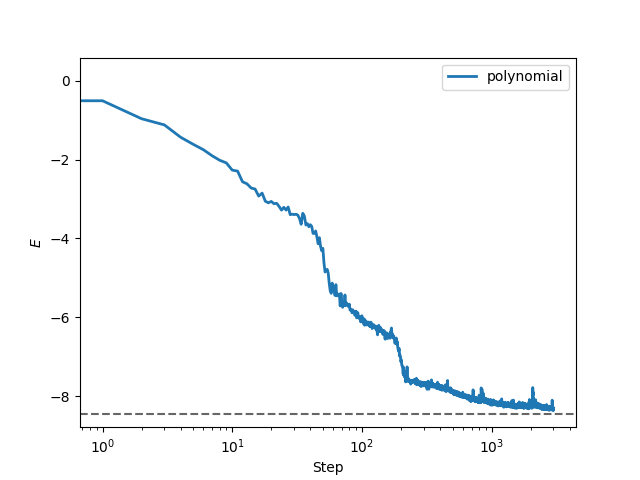
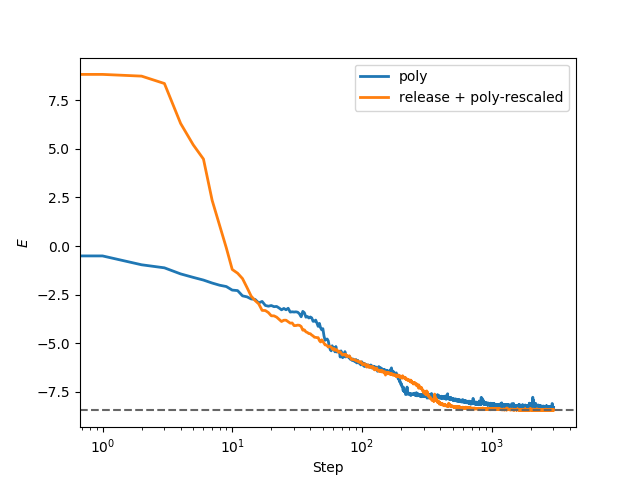
update wanglei3

diff --git a/controller.py b/controller.py
@@ -945,24 +945,23 @@ def analyse_psiscaling(J2, size):
     plt.legend(['$v$']+labels)
     pdb.set_trace()
 
-def analyse_poly(configfile, num_iter):
+def analyse_poly(configfile, num_iter, bench_id_list):
     config = load_config(configfile)
     # folder to store data, containing config.py
     folder = os.path.dirname(configfile)
     e0 = config['hamiltonian']['EG']
-    bench_id_list = [10,11,12,13,14,16]
     labels = ['polynomial','legendre', 'hermite', 'chebyshev', 'laguerre','hermiteE']
     legends = []
 
     sys.path.insert(0,folder)
     from config import modifyconfig_and_getnn
     plt.ion()
-    for bench_id, label in zip(bench_id_list, labels):
+    for ib,(bench_id, label) in enumerate(zip(bench_id_list, labels)):
         rbm = modifyconfig_and_getnn(config, bench_id)
 
         optimizer, problem = pconfig(config, rbm)
         h, sr, rbm, vmc = problem.hamiltonian, problem.sr, problem.rbm, problem.vmc
-        if bench_id == 10:
+        if ib == 0:
             H, e0, v0, configs = analyse_exact(h, do_printsign=False)
 
         # load data
@@ -976,7 +975,9 @@ def analyse_poly(configfile, num_iter):
         print('overlap = %s'%overlap)
 
         # show weights in conv layers.
-        polylayer = rbm.layers[4]
+        for layer in rbm.layers:
+            if hasattr(layer,'kernel_dict'):
+                polylayer = layer
         data = polylayer.get_variables()
         plt.plot(np.real(data))
         legends.append('%s (%.4f)'%(label,overlap))
@@ -985,27 +986,38 @@ def analyse_poly(configfile, num_iter):
     pdb.set_trace()
     plt.savefig('notes/img/polyweight.png')
 
-def analyse_polycurve(configfile, num_iter):
+def analyse_polycurve(configfile, num_iter, bench_id_list, show_var=False, token=''):
     config = load_config(configfile)
     # folder to store data, containing config.py
     folder = os.path.dirname(configfile)
     e0 = config['hamiltonian']['EG']
-    bench_id_list = [10,11,12,13,14,16]
-    labels = ['polynomial','legendre', 'hermite', 'chebyshev', 'laguerre','hermiteE']
     legends = []
 
     sys.path.insert(0,folder)
     from config import modifyconfig_and_getnn
     x = np.linspace(-2,2,200)
     plt.ion()
-    for bench_id, label in zip(bench_id_list, labels):
+    for bench_id in bench_id_list:
         rbm = modifyconfig_and_getnn(config, bench_id)
 
         # show weights in conv layers.
-        polylayer = rbm.layers[4]
-        data = polylayer.forward(x)
-        plt.plot(x,data.real)
-    plt.legend(labels)
-    plt.ylim(-20,20)
+        for nit in np.atleast_1d(num_iter):
+            rbm_var = np.load(folder+'/variables-%d%d.npy'%(bench_id,nit))
+            rbm.set_variables(rbm_var)
+            for layer in rbm.layers:
+                if hasattr(layer,'kernel_dict'):
+                    polylayer = layer
+                    legends.append(layer.kernel+'-%d'%nit)
+            if show_var:
+                data = polylayer.get_variables()
+                plt.plot(data.real)
+            else:
+                data = polylayer.forward(x)
+                plt.plot(x,data.real)
+    plt.legend(legends)
+    #plt.ylim(-20,20)
     pdb.set_trace()
-    plt.savefig('notes/img/polycurve.png')
+    if show_var:
+        plt.savefig('notes/img/polyvar-%s.png'%token)
+    else:
+        plt.savefig('notes/img/polycurve-%s.png'%token)

diff --git a/models/wanglei3.py b/models/wanglei3.py
@@ -21,7 +21,7 @@ class WangLei3(StateNN):
         :num_feature_hidden: int, number features in hidden layer.
     '''
     def __init__(self, input_shape, itype, powerlist, num_features=[12],fixbias=False,
-            version='conv', stride=1, eta=0.2, usesum=False, nonlinear='x^3',momentum=0., poly_order=10):
+            version='conv', stride=1, eta=0.2, usesum=False, nonlinear='x^3',momentum=0., poly_order=10, with_exp=False):
         self.num_features, self.itype = num_features, itype
         nsite=np.prod(input_shape)
         super(WangLei3, self).__init__(itype, do_shape_check=False)
@@ -56,6 +56,10 @@ class WangLei3(StateNN):
                 self.add_layer(functions.ReLU)
             elif nonlinear=='sinh':
                 self.add_layer(functions.Sinh)
+            elif nonlinear=='log2cosh':
+                self.add_layer(functions.Log2cosh)
+            elif nonlinear=='mobius':
+                self.add_layer(layers.Mobius, params = np.array([0j,1,1e20]),var_mask=[True,True,False])
             elif nonlinear in layers.Poly.kernel_dict:
                 self.add_layer(layers.Poly, params=eta*typed_randn('complex128', (poly_order,)), kernel=nonlinear)
             else:
@@ -76,4 +80,6 @@ class WangLei3(StateNN):
             pass
         else:
             raise ValueError('version %s not exist'%version)
+        if with_exp:
+            self.add_layer(functions.Exp)
         self.add_layer(functions.Reshape, output_shape=())

diff --git a/notes/plot.py b/notes/plot.py
@@ -229,15 +229,15 @@ def show_1d20p(dataset=''):
     J2 = 0.8
     EG = -0.423063620451*20
     if dataset=='nonlinear':
-        tasks = [1]
-        legends = ['polynomial']
+        tasks = [1, 3]
+        legends = ['poly','release + poly-rescaled']
     else:
         raise
     token = '%dpJ2%s_%s'%(20,J2,dataset)
     plt.ion()
     for show_err in [True, False]:
         plt.cla()
-        show_el(datafiles = ['../benchmarks/1d%dp/el-%i.dat'%(20,i) for i in tasks],
+        show_el(datafiles = ['../benchmarks/1d%dp%s/el-%i.dat'%(20,'8' if i==3 else '',i) for i in tasks],
                 EG = EG,
                 legends = legends,
                 show_err=show_err,
@@ -263,4 +263,4 @@ if __name__ == '__main__':
     #show_1d16p('usesum')
     #show_1d16p('nfeature')
     #show_1d16p('rate')
-    #show_1d20p('nonlinear')
+    show_1d20p('nonlinear')

diff --git a/notes/report.md b/notes/report.md
@@ -499,7 +499,7 @@ Data element '-++'  means system changes sign for translate 1 site operation ($T
 
   ![](img/polycurve.png)
 
-# Data flow
+# kData flow
 
 ![](img/dataflow.png)
 
@@ -512,3 +512,17 @@ This is an example, I show that after polynomial operation, we have data amplitu
 ![](img/errl-20pJ20.8_nonlinear.png)
 
 $20$ features in convolution layer, polynomial kernel, optimize using Adam (0.01). 
+
+# Day 25 Sep
+Complex activation function,
+* Sigmoid is singular at $z=(2n+1)i\pi$, its adaption is $f(x)=\frac{1}{1+e^{-\Re z}}+\frac{1}{1+e^{-\Im z}}$ (Birx 1992, Benvenuto 1992).
+* Tanh is singular at $z=(n+1/2)i\pi$, its adaption for CVNN is $f(z) = \tanh(\Re z)+i\tanh(\Im z)$ (Kechriotis 1994, Kinouchi 1995), $f(z)=\tanh(|z|)\exp(i\arg(z))$ (Hirose 1994).
+* $f(x) = \frac{z}{|z|}$
+* $f(x) = \frac{z}{c+\frac{1}{r}|z|}$ (Noest 1998)
+* $f(x) = \frac{|z|}{c+\frac{1}{r}|z|}\exp\left[i\{\arg z-\frac{1}{2^n}\sin(2^n \arg z)\}\right]$ (Kuroe 2005).
+
+Comparison can be found in Kuroe 2009.
+
+* using conformal mapping $f(z) = \frac{(\cos\theta+i\sin\theta)(z-\alpha)}{1-\bar{\alpha}z},|\alpha|<1$,
+  This function is the general conformal mapping that transform unit disk in the complex plane onto itself and also a M¨obius transformation.
+  First used by Mandic 2000 in RVNN.
